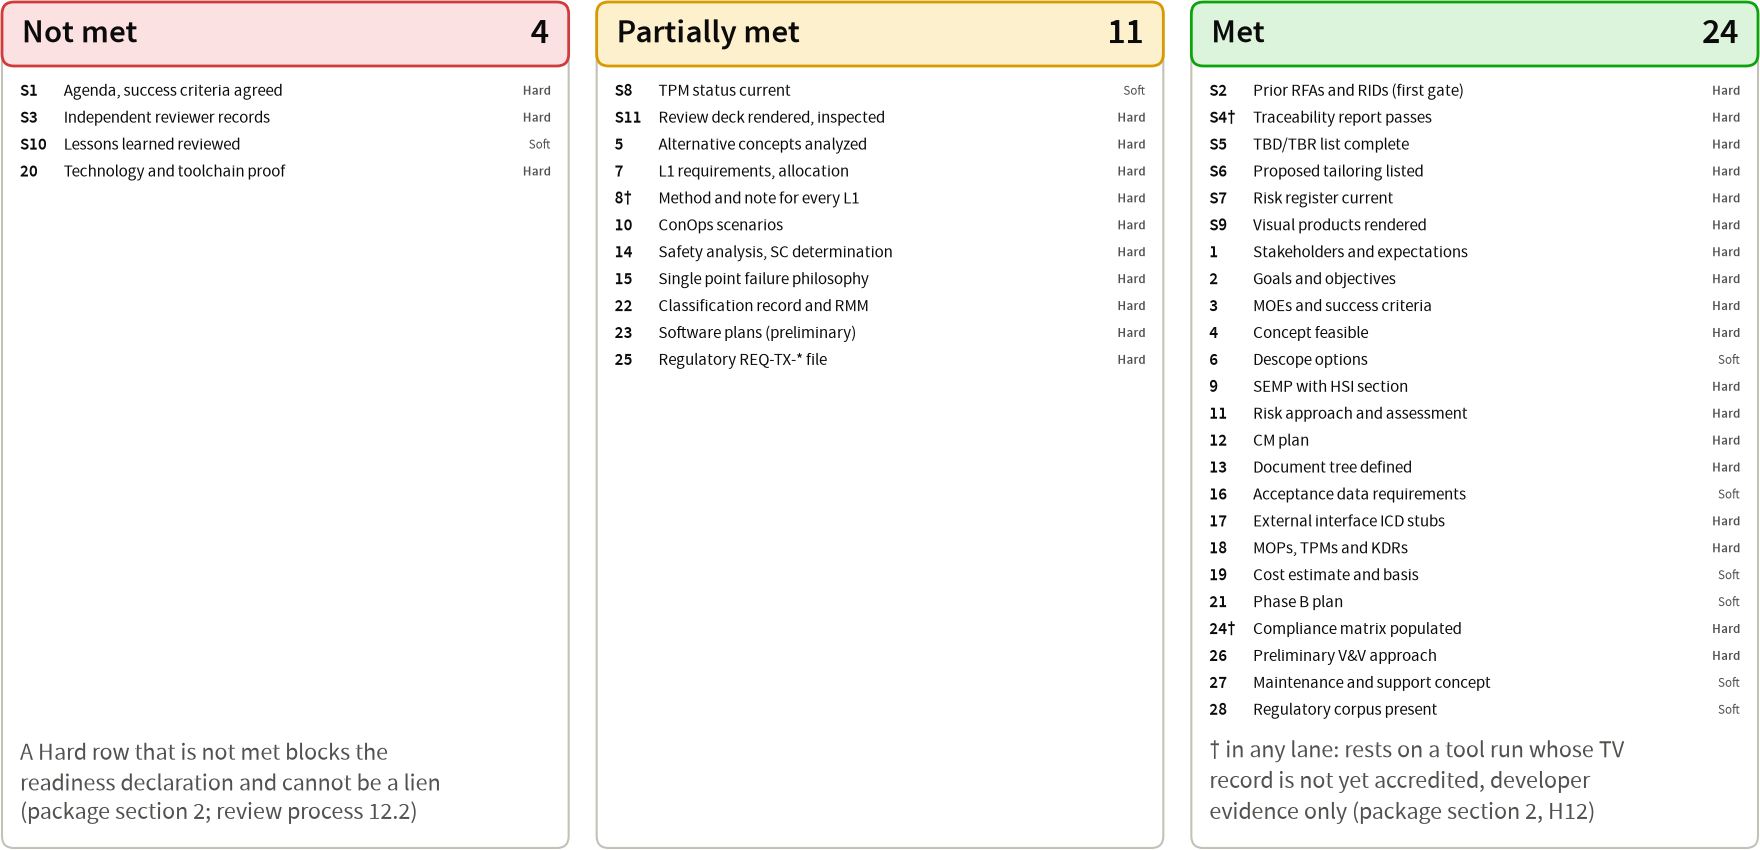
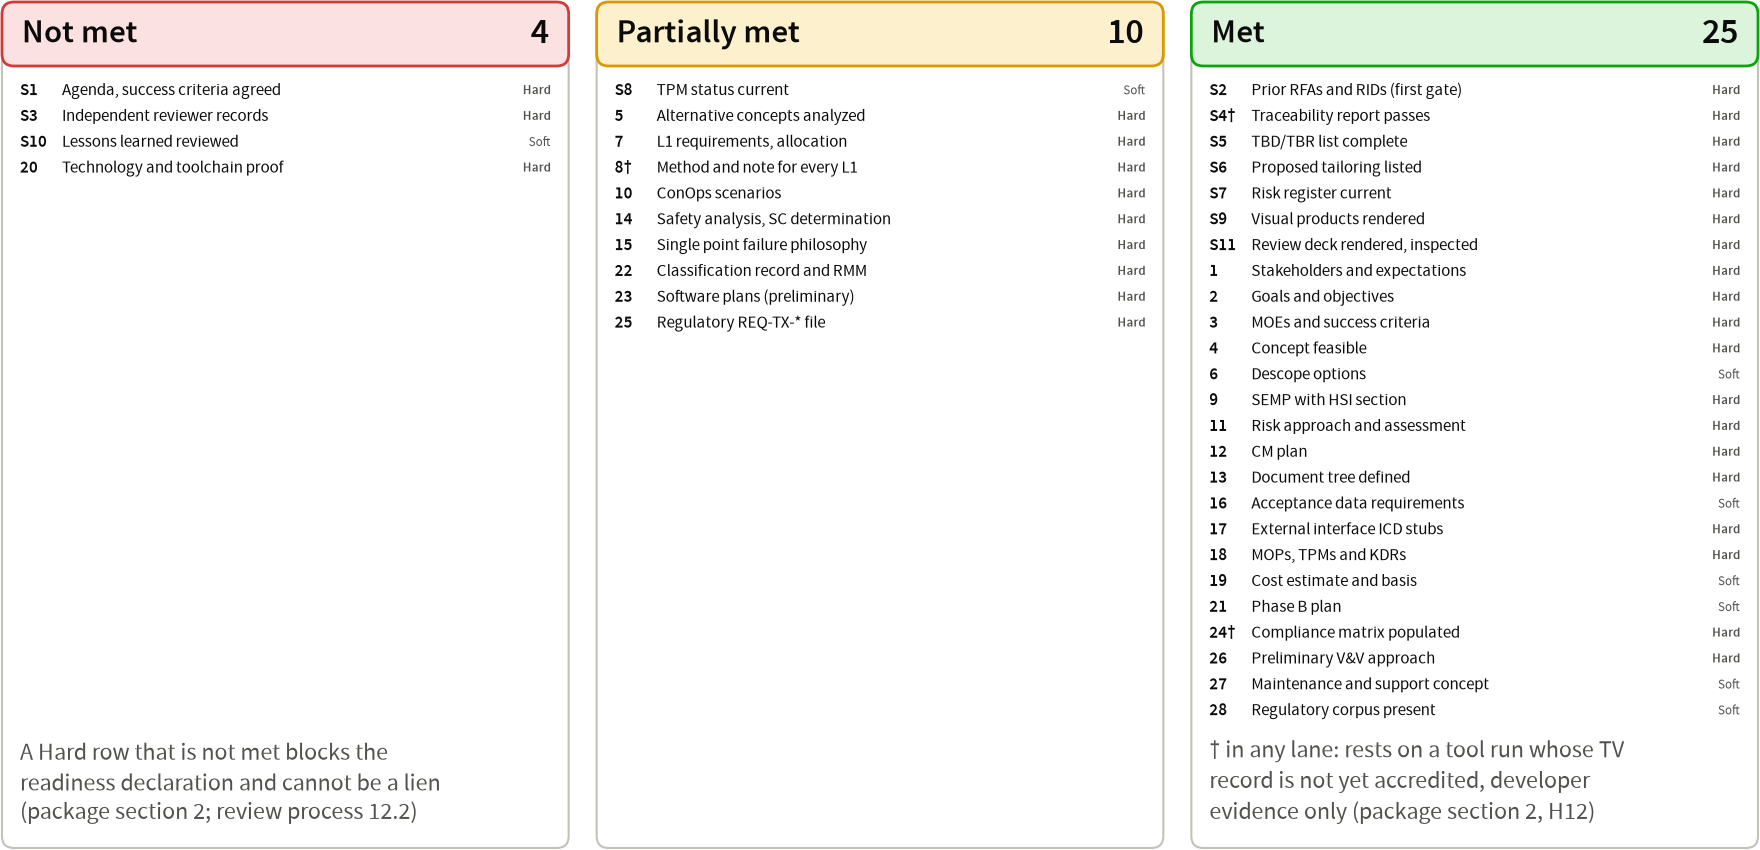
SRR package: apply readiness confirmation Minors M1 to M4 (section 12 status, section 21 lien count, section 4 note, entrance-checklist figure re-rendered to 4/10/25); confirmation verdict APPROVED

diff --git a/docs/reviews/SRR/package.md b/docs/reviews/SRR/package.md
@@ -336,7 +336,7 @@ Standing criteria (review process section 3.2), then the SRR table (section 4.3)
 | 27 | Maintenance and support concept | Soft | `docs/conops/conops.md` sections 3.5.3 and 5 | `1543c9f` | Met | |
 | 28 | Regulatory corpus present | Soft | `docs/references/md/regulatory/` | `2d3c4d8` | Met | 34 files, eCFR issue 2026-09-23 |
 
-Counts: Met 25, Partially met 10, Not met 4 (39 rows). Changes from revision 8 final (deck amendment tabulation): S11 re-rated Met (R20 Done, INSP-029 delta re-issue at `0a583b9`). Changes from revision 7: rows 4 and 12 re-rated Met (INSP-002 APPROVED at `b08e55d`, INSP-030 APPROVED at `99ecccb`; no ruling that the content waits on). Changes from revision 5: rows 1, 2 and 3 re-rated Met (INSP-001 APPROVED at `5f647f2`, no ruling that the content waits on); the revision 5 count line read "Partially met 15, Not met 5" although its table and the entrance figure held 16 and 4 after S11 moved to Partially met (section 15 item 70). Hard rows not Met, each blocking the declaration: Not met S1 (owner), S3, 20; Partially met S11, 5, 7, 8, 10, 14, 15, 22, 23, 25. Of these, rows 7, 8, 15, 22, 23 and 25 wait on owner rulings only; row 5 on rulings (the ADR part); row 14 on rulings and the post-ruling OPS-013 edit (R16); row 10 on decisions 36, 37, 41 and 42 and the post-ruling ConOps edit (R16); S11 on the INSP-029 re-issue (R19 (b), pending in this run); S3 on the rulings and the INSP-029 re-issue; row 20 on rulings, OA-1 and R16. **Revision 8 final:** counts unchanged (Met 24, Partially met 11, Not met 4; `render_review_figures.py --check` exit 0, no figure re-rendered); S11 now waits on item R20 (readiness finding R15b-F1) instead of the INSP-029 re-issue, which is done; S3 waits on the rulings only. Soft rows not Met, proposed as liens: S8 (Partially met), S10 (Not met).
+Counts: Met 25, Partially met 10, Not met 4 (39 rows). Changes from revision 8 final (deck amendment tabulation): S11 re-rated Met (R20 Done, INSP-029 delta re-issue at `0a583b9`). Changes from revision 7: rows 4 and 12 re-rated Met (INSP-002 APPROVED at `b08e55d`, INSP-030 APPROVED at `99ecccb`; no ruling that the content waits on). Changes from revision 5: rows 1, 2 and 3 re-rated Met (INSP-001 APPROVED at `5f647f2`, no ruling that the content waits on); the revision 5 count line read "Partially met 15, Not met 5" although its table and the entrance figure held 16 and 4 after S11 moved to Partially met (section 15 item 70). Hard rows not Met, each blocking the declaration: Not met S1 (owner), S3, 20; Partially met 5, 7, 8, 10, 14, 15, 22, 23, 25. Of these, rows 7, 8, 15, 22, 23 and 25 wait on owner rulings only; row 5 on rulings (the ADR part); row 14 on rulings and the post-ruling OPS-013 edit (R16); row 10 on decisions 36, 37, 41 and 42 and the post-ruling ConOps edit (R16); S3 on the rulings only (the INSP-029 re-issue is done and S11 is Met); row 20 on rulings, OA-1 and R16. **Revision 8 final:** counts unchanged (Met 24, Partially met 11, Not met 4; `render_review_figures.py --check` exit 0, no figure re-rendered); S11 now waits on item R20 (readiness finding R15b-F1) instead of the INSP-029 re-issue, which is done; S3 waits on the rulings only. Soft rows not Met, proposed as liens: S8 (Partially met), S10 (Not met).
 
 Cross-document actions of review process section 15: see section 18.
 
@@ -447,7 +447,7 @@ Every figure below was rendered and opened; the seven package figures were re-re
 
 | Figure | Path | Source artifact | Generator | Inspected on | Result |
 |---|---|---|---|---|---|
-| Entrance-criteria board | `docs/reviews/SRR/figures/entrance-checklist.png` | this file, section 4 | `tools/render_review_figures.py` (blob `6f3018fd`) | 2026-09-26 (package author, revision 8) | Counts as section 4 (Not met 4, Partially met 11, Met 24); rows 1 to 4 and 12 in the Met lane; S11 in the Partially met lane; daggers on S4, 8 and 24; lane footnotes clear the rows; legible |
+| Entrance-criteria board | `docs/reviews/SRR/figures/entrance-checklist.png` | this file, section 4 | `tools/render_review_figures.py` (blob `6f3018fd`) | 2026-09-26 (lead SE, after the readiness confirmation at `0daec0c`, finding M4; opened and inspected) | Counts as section 4: Not met 4, Partially met 10, Met 25, with S11 in the Met lane; legible, nothing clipped |
 | Success-criteria board | `docs/reviews/SRR/figures/success-criteria.png` | this file, section 20 | `tools/render_review_figures.py` (blob `6f3018fd`) | 2026-09-26 (package author, revision 8) | Counts as section 20 (Not met 4, Partially met 4, Met 10; C2 and 4.4-7 in the Met lane); legible; the footer's Partially met sentence says 'an owner approval is pending' while section 20 no longer counts approvals the gate grants (cross item for the tool owner) |
 | Requirements by group | `docs/reviews/SRR/figures/requirements-by-group.png` | section 8 and `requirements.json` | `tools/render_review_figures.py` | 2026-09-26 (package author, revision 5; byte-identical at revision 6) | 183 requirements, 181 non-retired, 2 retired; Test 111, Analysis 41, Inspection 21, Demonstration 8; 115 open TBRs; 11 groups; legible, no overlaps |
 | KDR map | `docs/reviews/SRR/figures/kdr-map.png` | `requirements.json` (priority KDR) | `tools/render_review_figures.py` | 2026-09-26 (package author, revision 5; byte-identical at revision 6) | 18 KDRs in 8 groups, 10 with an open TBR; each tag names the review that closes the TBR (REQ-SYS-042 TBR SRR); legible |
@@ -630,7 +630,7 @@ Residual risks the owner is asked to accept at this gate: RSK-008 hardware TRL 3
 
 | Milestone (`docs/plan/schedule.md`) | Planned trigger or date | Actual | Slip cause | Recovery |
 |---|---|---|---|---|
-| SRR package ready | 2026-09-26 morning | Revision 8 final assembled 2026-09-26; not ready | The open items of section 2.1 (owner: R1, R2; lead SE: R20, the deck route of readiness finding R15b-F1; R16 after the rulings). R19 (b) and R15 are done | Lead SE names the R20 route; pre-review session for the rulings and OA-1 |
+| SRR package ready | 2026-09-26 morning | Revision 8 final assembled 2026-09-26; ready for the pre-review session (independent readiness confirmation APPROVED at `0daec0c`) | The open items of section 2.1 are the owner's (R1, R2, S1) and the post-ruling work R16; R20, R19 (b) and R15 are done | Pre-review session for the rulings and OA-1 and OA-2 |
 | PDR | 2026-09-26 evening | pending | SRR not yet held | Six trade studies, L2 specifications, ICDs and the V&V plan due |
 | CDR and procurement release | 2026-09-27 evening and night | pending | RSK-014 (Red) | Lien rule of RSK-014 S2 |
 | Vendor delivery and TRR | 2 to 4 weeks after the order | pending | RSK-053 (holiday closure 2026-10-01 to 10-04) | Alternates in the BOM at CDR |
@@ -1504,7 +1504,7 @@ Accounting for the section 15 items (revision 8 final): every Major item (5, 9, 
 
 - Session type: pre-review session. The SRR gate review is not convened, because Hard rows of sections 3.2 and 4.3 are not met (review process section 4.2); the minutes `docs/reviews/SRR/minutes.md` record this session as a pre-review session, in slide order.
 - Items raised this session: RIDs 0 (Major 0, Minor 0), RFAs 0 (Blocking 0, Routine 0); log: `docs/reviews/SRR/rfa-rid-log.json`.
-- Disposition: not requested. When the items of section 2.1 are closed and the owner confirms readiness, the requested disposition is *Approved with liens* with liens L-1 to L-7 (L-6 is the 123 record liens plus E-10 of section 20.2, revision 8 final).
+- Disposition: not requested. When the items of section 2.1 are closed and the owner confirms readiness, the requested disposition is *Approved with liens* with liens L-1 to L-7 (L-6 is the 122 record liens plus E-10 of section 20.2).
 - Liens: section 20.1 (proposed).
 - On-air delta TRR only: not applicable.
 - Owner statement (verbatim, with time): none.
